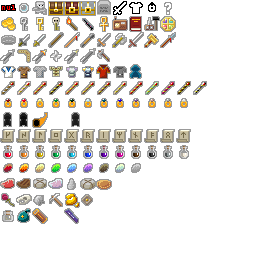
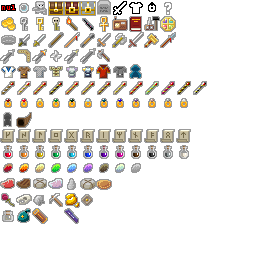
V0.2.0: more sprite work

Changed region(s): [[0.0, 0.4375, 0.1875, 0.5], [0.25, 0.4375, 0.3125, 0.5]]

diff --git a/src/com/shatteredpixel/shatteredpixeldungeon/sprites/ItemSpriteSheet.java b/src/com/shatteredpixel/shatteredpixeldungeon/sprites/ItemSpriteSheet.java
@@ -130,7 +130,8 @@ public class ItemSpriteSheet {
     public static final int RING_DIAMOND	= ROW7+11;
 
     //Row Eight: Trinkets
-    //ssshhh...
+    public static final int TRINKET_CLOAK   = ROW8+0;
+    public static final int TRINKET_HORN    = ROW8+1;
 
     //Row Nine: Scrolls
     public static final int SCROLL_KAUNAN	= ROW9+0;
